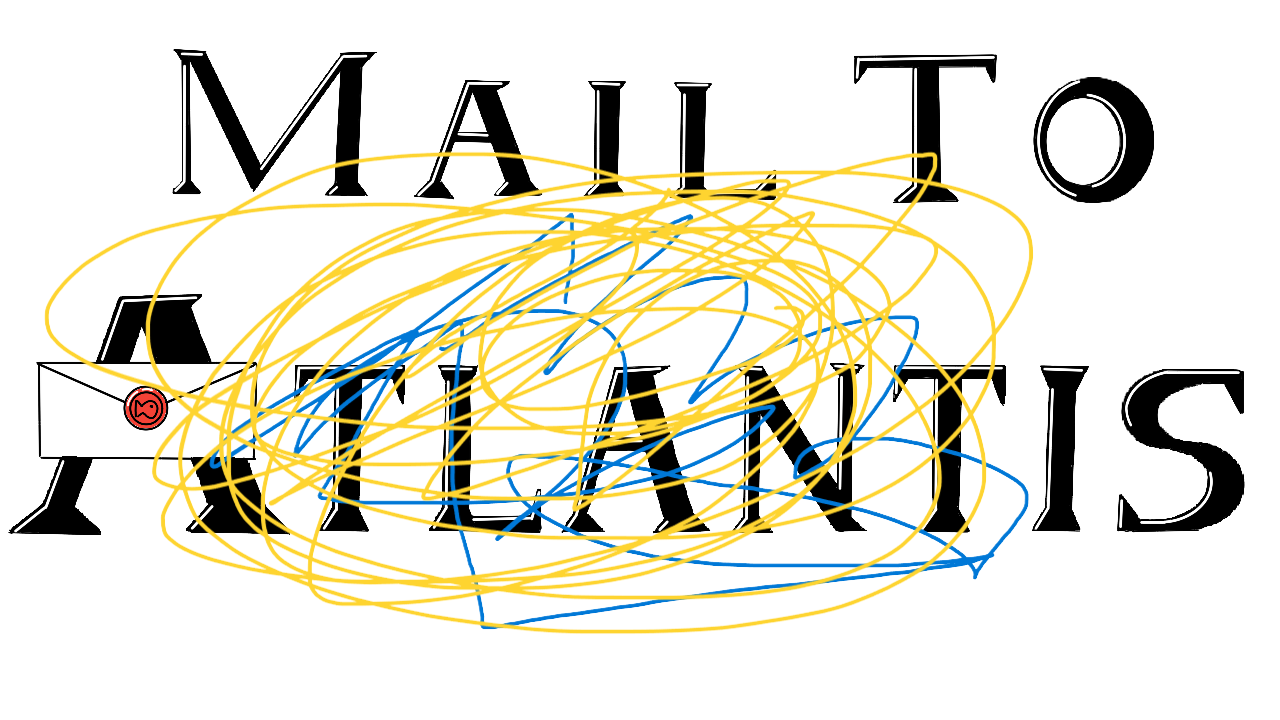
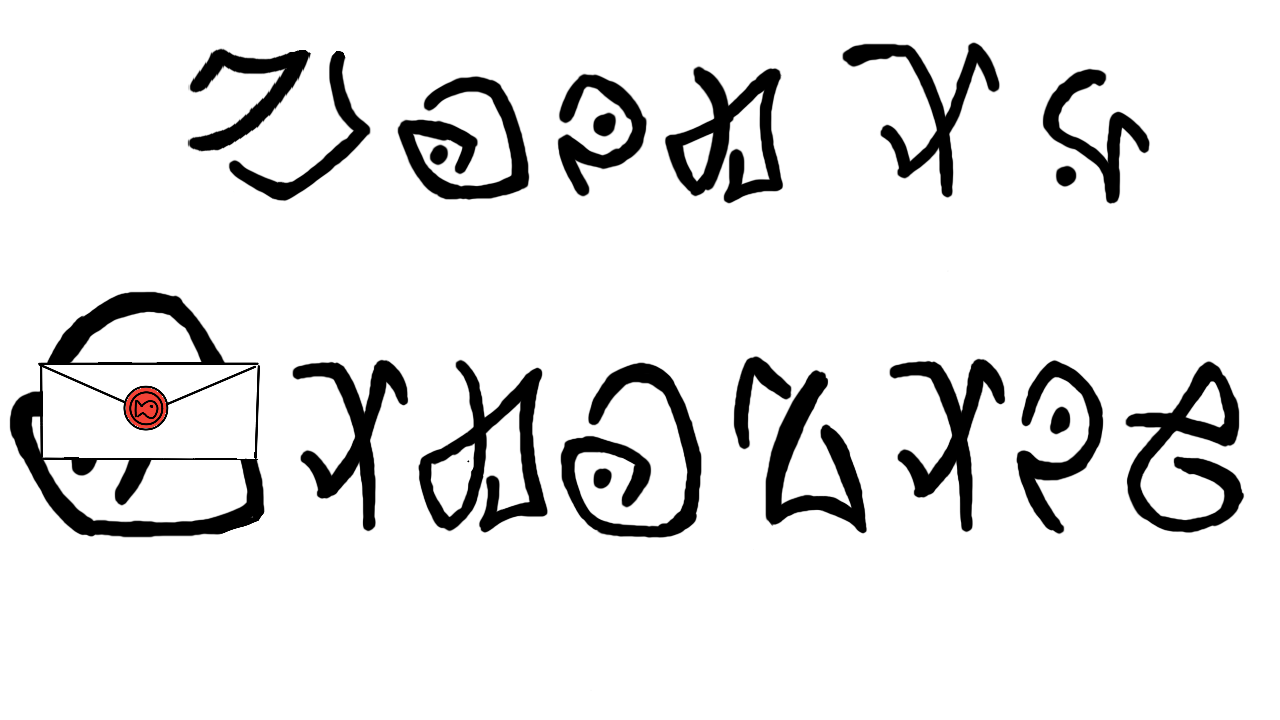
mas cambios a la pagina

Changed region(s): [[0.0, 0.0611, 0.9688, 0.8861], [0.7812, 0.0917, 0.9062, 0.3056], [0.0625, 0.3361, 0.0938, 0.3667]]

diff --git a/styles.css b/styles.css
@@ -277,21 +277,32 @@ footer img:hover {
 
 .imagen-container {
     position: relative;
-    display: inline-block; /* Asegura que las imágenes estén una al lado de la otra */
+    display: inline-block; 
+	width: 400px; 
+    height: 200px; 
 }
 
-.cambiar-imagen:nth-child(2) {
-    opacity: 0; /* Oculta la segunda imagen al principio */
+.cambiar-imagen {
     position: absolute;
     top: 0;
     left: 0;
     transition: opacity 0.5s ease-in-out;
+	width: 100%; 
+    height: 100%;
 }
 
-.cambiar-imagen:hover:nth-child(1) {
-    opacity: 0; /* Oculta la primera imagen al pasar el ratón */
+.primera-imagen {
+    opacity: 1; /* Asegura que la primera imagen es visible inicialmente */
 }
 
-.cambiar-imagen:hover:nth-child(2) {
+.segunda-imagen {
+    opacity: 0; /* Oculta la segunda imagen inicialmente */
+}
+
+.imagen-container:hover .primera-imagen {
+    opacity: 0; /* Hace la primera imagen transparente al pasar el ratón */
+}
+
+.imagen-container:hover .segunda-imagen {
     opacity: 1; /* Muestra la segunda imagen al pasar el ratón */
 }

diff --git a/index.html b/index.html
@@ -30,8 +30,8 @@
 	<header>
 		  <!-- Sección del Título -->
       <div class="imagen-container" style="text-align: center; margin-top: 20px;">
-        <img src="web/cartelMTA.png" class="cambiar-imagen" style="width: 400px; height: 200px;">
-        <img src="web/manzana.jpg" class="cambiar-imagen" style="width: 400px; height: 200px;">
+        <img src="web/cartelMTA.png" class="cambiar-imagen primera-imagen">
+        <img src="web/cartelMTA2.png" class="cambiar-imagen segunda-imagen">
     </div>
 
 		<div>
@@ -44,7 +44,7 @@
      <!-- Sección de Descripción -->
      <div class="descripcion">
 		<div class="cuadro">
-			<h2>Descripción del Juego</h2>
+			<h2>Descripción</h2>
 		</div>
 		<p class="descripcion-txt">
 			"TEXTO DE LA DESCRIPCION DEL JUEGO AQUI"
@@ -59,7 +59,7 @@
    
     <!-- Sección de Trailer -->
     <div class="cuadro">
-        <h2>Trailer del Juego</h2>
+        <h2>Pelicula</h2>
     </div>
        
         <!-- Trailer -->
